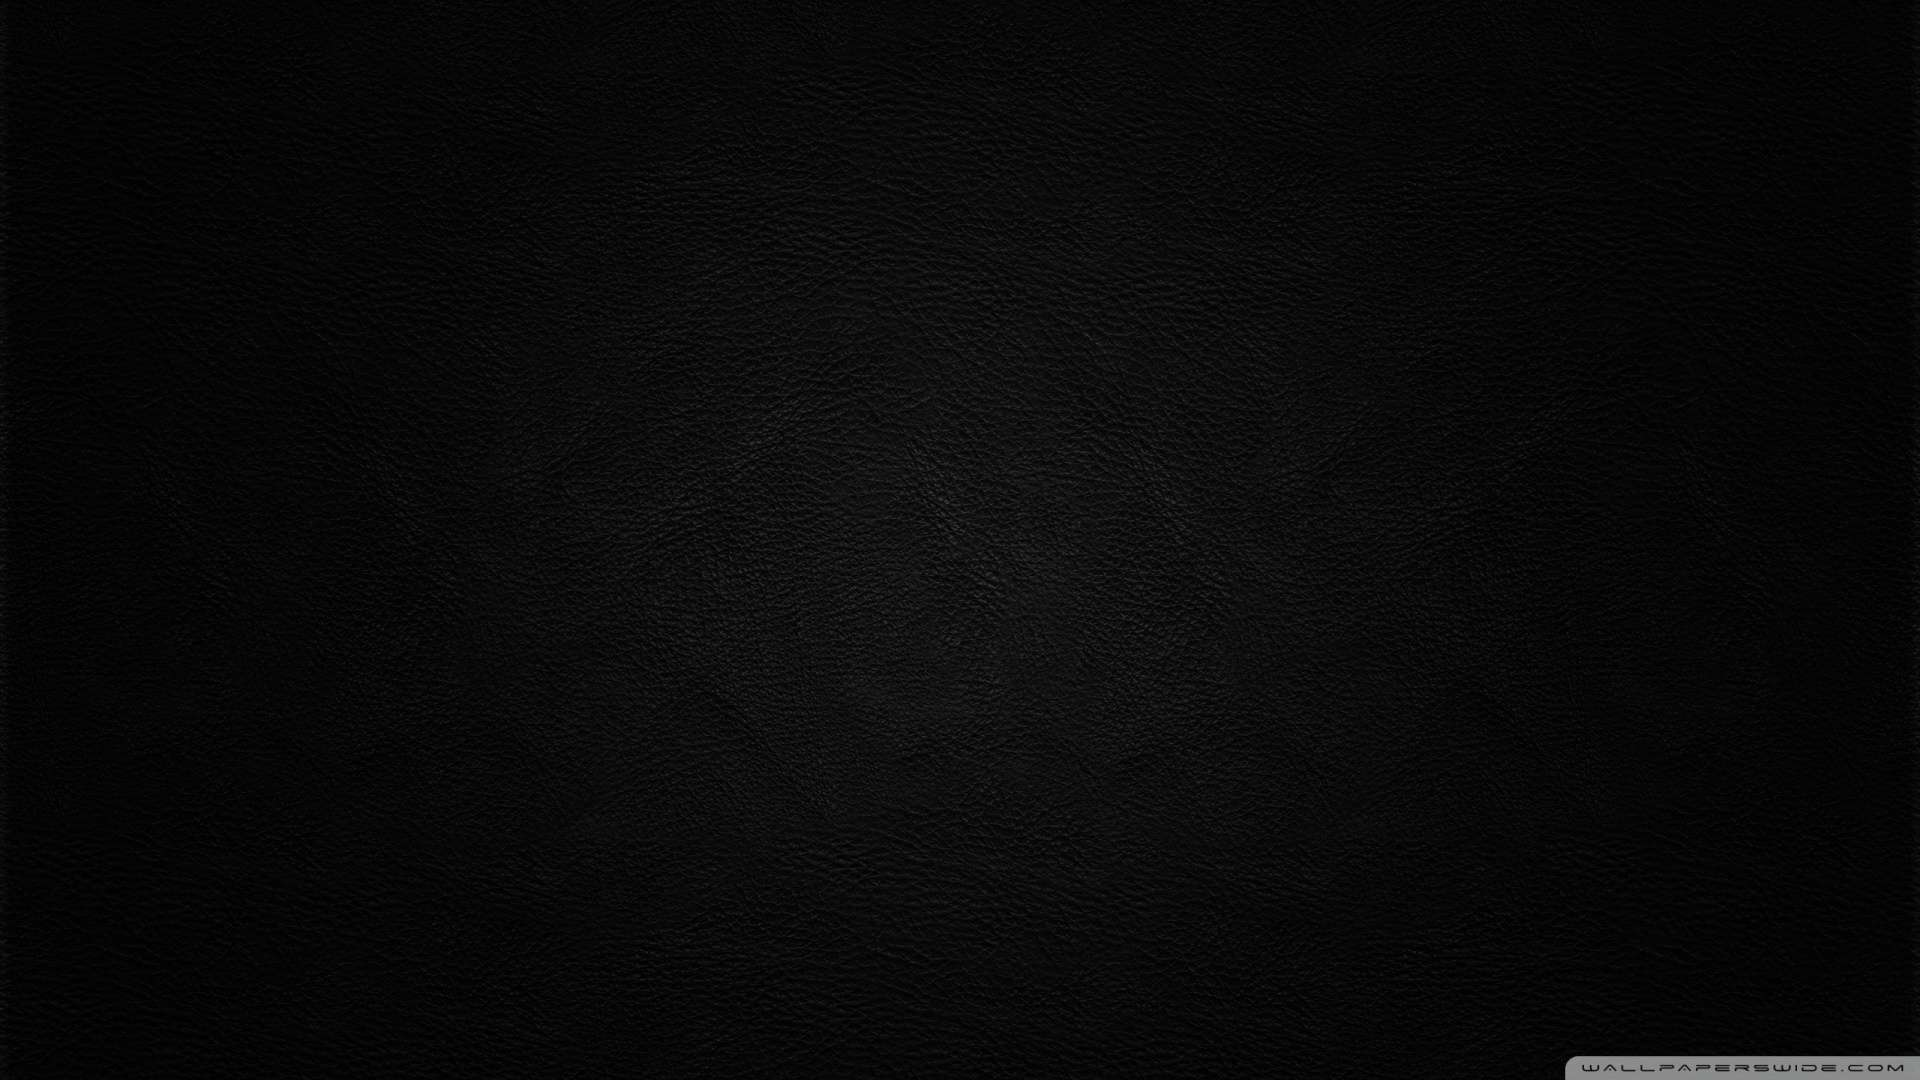
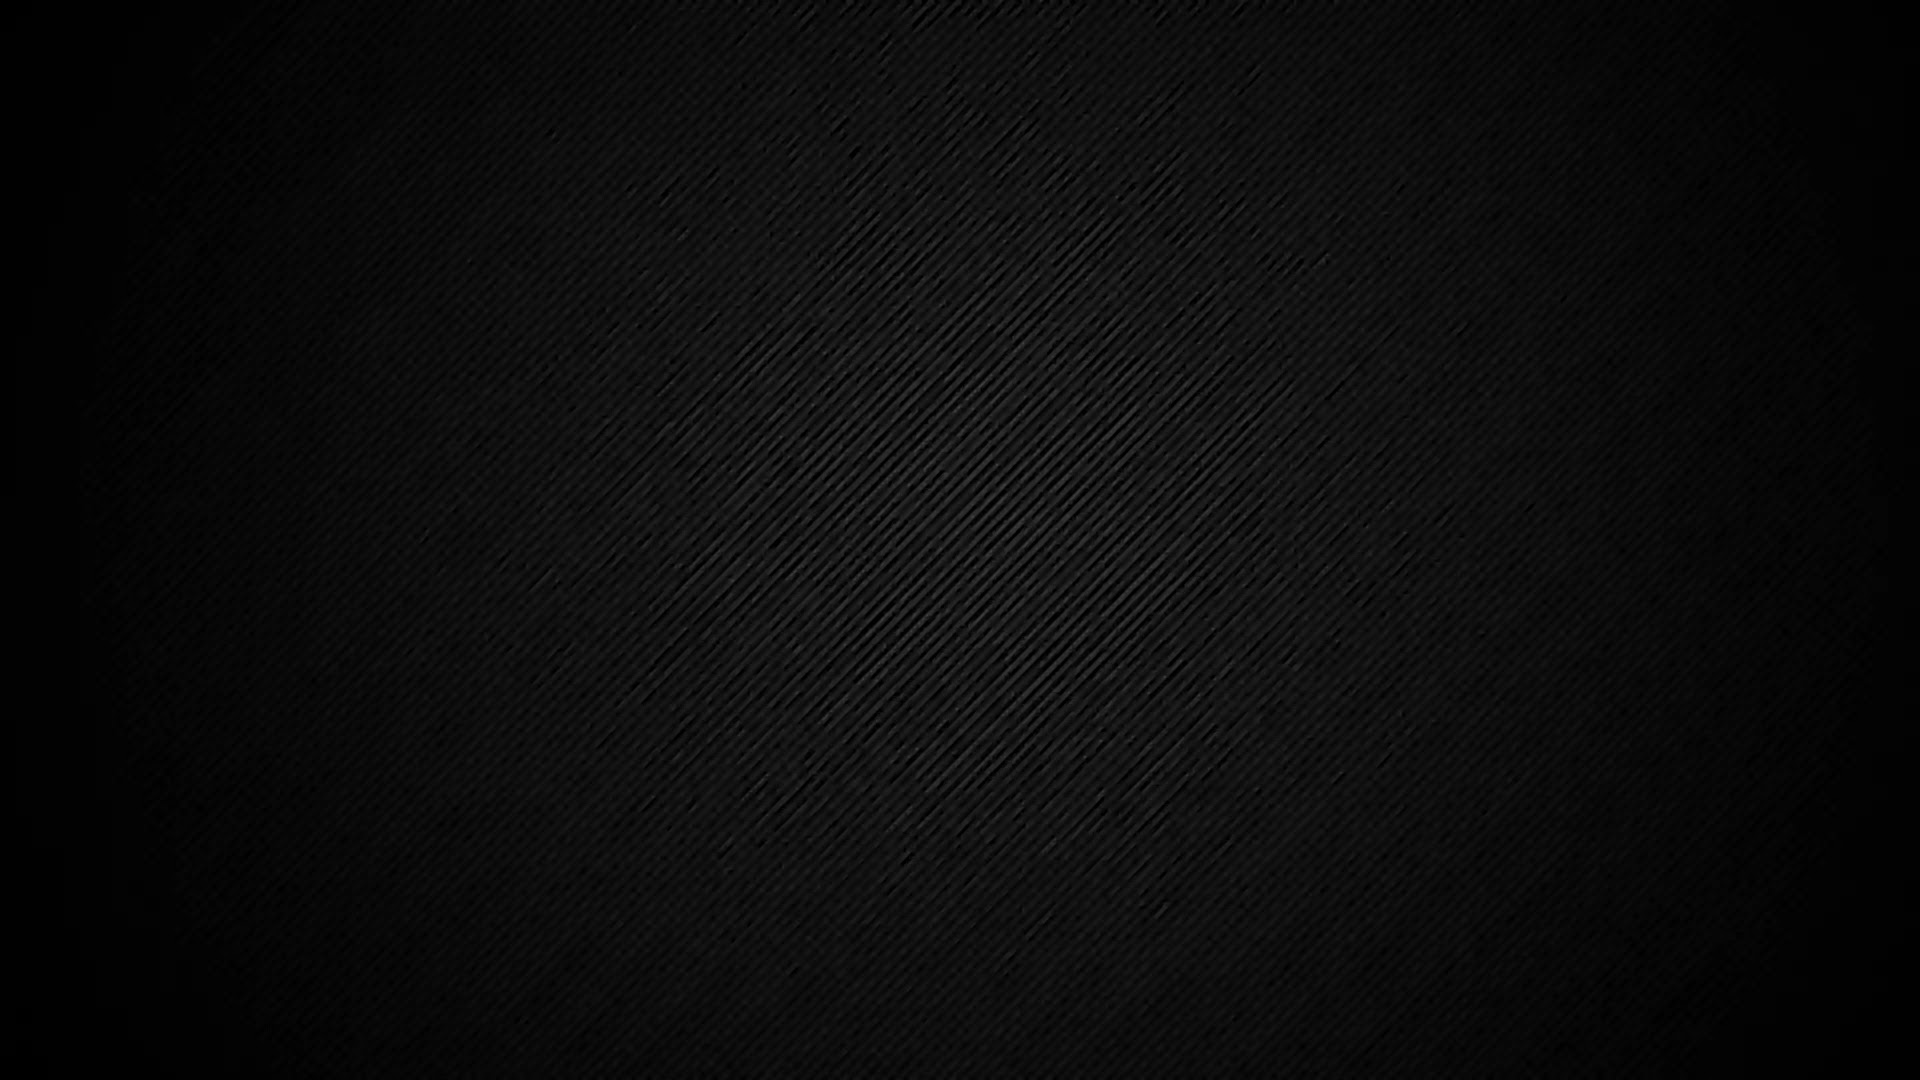
Add files via upload

diff --git a/index.html b/index.html
@@ -27,8 +27,8 @@
                 <div id="uI_Para_AboutMe" class="uI_Para"> 
                     My Name is  <span class="beach_Text">William Newton</span>.  I am a 28 year old Web Developer living in Denton, Texas.
                     I am an Enneagram <span class="beach_Text">5</span>, <span class="beach_Text">INFP</span>. , with a heart embedded with exploration.
-                    <br><br>A few important words to me include <span class="beach_Text">Integrity, Humility, Servitude, and Patience</span>. include Integrity, Humility, Servitude, and Patience.
-                    <br><br>I enjoy Web Developement because I enjoy the process of building engaging avenues of communication for people around the world!
+                    <br><br>A few important words to me include <span class="beach_Text">Integrity, Humility, Servitude, and Patience</span>.
+                    <br><br>I enjoy Web Developement because I enjoy the process of building engaging avenues of communication, as well as solving technical problems, for people around the world!
                 </div>
             </div> 
         </div>
@@ -36,6 +36,16 @@
         <div id="display_Experience" class="displayUI">
             <div id="displayUITile_Experience" class="displayUITile">
                 <button onclick="returnToTileBoard()" id="returnToTileBoard_BTN_2">BACK</button>    
+                <div id="uI_Title_Experience" class="uI_Title">Experience</div>
+                <div id="uI_Para_Experience" class="uI_Para"> 
+                <span class="grey">Elephant</span> in the room!  I do not have any paid job experience in the field of software engineering.
+                This being said, I understand that 'I do not know, what I do not know!'.  However, I am an eager, and coachable, life-long learner.
+                    <br><br>
+                My experience outside of software engineering is as followed; <br><br>
+                <span class="beach_Text"> United States Army Reserves </span>8 years of service with honorable discharge. <br>
+                <span class="beach_Text"> Next Gen Ministry Intern </span> with 3 unique teams; including LifeChurch, Valley Creek Church, and Cross Timbers Church.<br>
+                <span class="beach_Text"> Nearly 4,000 Trips </span> as an Uber driver, hearing nearly every song that has ever existed.
+                </div>
             </div> 
         </div>
 
@@ -82,6 +92,15 @@
         <div id="display_Education" class="displayUI">
             <div id="displayUITile_Education" class="displayUITile">
                 <button onclick="returnToTileBoard()" id="returnToTileBoard_BTN_6">BACK</button>    
+                <div id="uI_Title_Education" class="uI_Title"> Education </div>
+                <div id="certWrapper">
+                    <img id="jsCert" src="jsCert.PNG" alt="">
+                    <img id="htmlCert" src="htmlCert.PNG" alt="">
+                    <div id="educationInfo">
+                        *above are my certificates in the following order: JavaScript (codecademy.com), HTML/CSS (freecodecamp)
+                    </div>
+                </div>
+                <br><br>
             </div> 
         </div>
         

diff --git a/style.css b/style.css
@@ -6,8 +6,7 @@ body {
 }
 
 #mainWrapper {
-    background-color: rgb(0, 0, 0);
-    background-image: url("bodyBackGround.PNG");
+   background-color: black;
     width:100vw; height:100vh;
     display:flex;
     align-items: center;
@@ -105,15 +104,11 @@ body {
     background-image: url("skills.PNG");
     border-bottom-left-radius: 8px;
 }
-#interests {
-    background-image: url("favorites.PNG");
-}
-#education {
-    background-image: url("credentials.PNG");
-}
-#contact {
-    background-image: url("contact.PNG");
-    border-bottom-right-radius: 8px;
+
+#interests {background-image: url("favorites.PNG");}
+#education {background-image: url("credentials.PNG");}
+#contact {background-image: url("contact.PNG");
+border-bottom-right-radius: 8px;
 }
 /* This is the display page once a tile is selected */
 
@@ -173,6 +168,34 @@ body {
     top:44%; 
 }
 
+#uI_Para_Experience {
+    position: absolute;
+    width:75%;
+    padding: 20px;
+}
+
+#certWrapper {
+    width: 70%; height:40%;
+    margin-top: 15vh;
+    align-self: center;
+    display:flex;
+    flex-direction: row;
+    gap:40px;
+    flex-wrap: wrap;
+    position: relative;
+    align-items: center; justify-content: center;
+}
+
+#educationInfo {
+    width: 90%;
+    color:white;
+    text-align: center;
+}
+
+*#jsCert, #htmlCert {
+    height:100%;
+}
+
 #uI_Para_AboutMe {
     color:rgb(255, 255, 255); 
     position: absolute;
@@ -209,6 +232,7 @@ padding: 20px 20px 20px 20px;
     width:120px; 
 }
 
+.grey {color:rgb(201, 201, 201)}
 .mountain_Text {color:rgb(131, 243, 131);}
 .beach_Text {color:rgb(131, 170, 243);}
 .warm_Text {color:rgb(243, 131, 131);}
